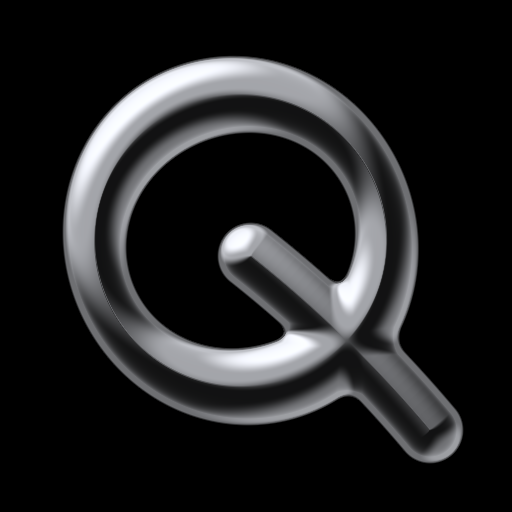
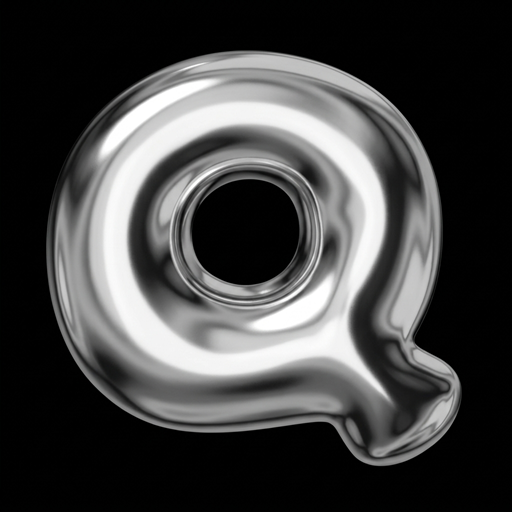
09: применить 3D-иконку Q из жидкого хрома на чистом OLED-чёрном фоне

diff --git a/sw.js b/sw.js
@@ -1,4 +1,4 @@
-const CACHE_NAME = 'knitq-v34';
+const CACHE_NAME = 'knitq-v35';
 
 const STATIC_ASSETS = [
   './',
